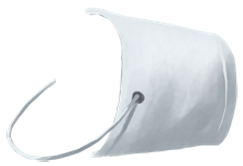
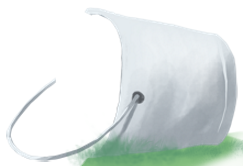
Improved hideouts and animations so it doesn't look completely stupid when the ducklings are sitting behind things.

Changed region(s): [[0.2593, 0.7831, 1.0, 1.0]]

diff --git a/app/src/main/assets/prototyp/games/erna/index.html b/app/src/main/assets/prototyp/games/erna/index.html
@@ -57,10 +57,10 @@
 		</div>
 
 		<!-- Seerose -->
-		<div class="hideout-wrap" id="hideout-1" >
+		<!-- <div class="hideout-wrap" id="hideout-1" >
 			<div class="hideout-back" backsideof="hideout-1"><img src="assets/versteck_1_back.png"></div>
 			<div class="hideout-front" ><img src="assets/versteck_1_front.png"></div>
-		</div>
+		</div> -->
 
 		<!-- Steine -->
 		<div class="hideout-wrap" id="hideout-2" >
@@ -72,18 +72,19 @@
 		</div>
 
 		<!-- Eimer -->
-		<div class="hideout-wrap" id="hideout-4">
+		<div class="hideout-wrap" id="hideout-4" notfor="#karl-heinz">
 			<div class="hideout-back"><img src="assets/versteck_4_back.png"></div>
 			<div class="hideout-front"><img src="assets/versteck_4_front.png"></div>
 		</div>
 
 		<!-- Blätter -->
+		<div class="hideout-wrap" id="hideout-1">
+			<div class="hideout-front" ><img src="assets/versteck_3.png"></div>
+		</div>
 		<div class="hideout-wrap" id="hideout-3">
 			<div class="hideout-front" ><img src="assets/versteck_3.png"></div>
 		</div>
-		<div class="hideout-wrap" id="hideout-10">
-			<div class="hideout-front" ><img src="assets/versteck_3.png"></div>
-		</div>
+		
 
 		<!-- ===== KÜKEN ==== -->
 		<div class="kueken animationWrap" id="karl" frames="1,4"></div>

diff --git a/app/src/main/assets/prototyp/games/erna/css/erna.css b/app/src/main/assets/prototyp/games/erna/css/erna.css
@@ -111,17 +111,18 @@ body {
 /* ==== individual hideouts ==== */
 
 /*Seerose*/
-#hideout-1{
+/*#hideout-1{
 	left: 37vw;
 	top: 61vh;
-	width: 17vw;
+	width: 20vw;
 }
 
 #hideout-1 .kueken {
 	margin-top: -7%;
 	width: 10vw;
 	height: 10vw;
-}
+	left: -5px;
+}*/
 
 /*Steine*/
 #hideout-2 {
@@ -149,17 +150,17 @@ body {
 	top: 75vh;
 }
 
-#hideout-10 {
-	right: 30vw;
-	top: 75vh;
+#hideout-1 {
+	right: 34vw;
+	top: 65vh;
 }
 
 #hideout-3 .kueken,
-#hideout-10 .kueken {
-	margin-top: 45px;
+#hideout-1 .kueken {
+	margin-top: 4.5vh;
 }
 
-#hideout-10 img{
+#hideout-1 img{
 	transform: scale(-1,1);
 }
 
@@ -170,7 +171,7 @@ body {
 }
 
 #hideout-4 .kueken {
-	margin-top: 0;
+	margin-top: -5px;
 	left: 2%;
 	width: 10vw;
 	height: 10vw;
@@ -183,7 +184,7 @@ body {
 }
 
 #hideout-5 .kueken {
-	margin-top: 40px;
+	margin-top: 20px;
 }
 
 /*Schilf*/

diff --git a/app/src/main/assets/prototyp/games/erna/js/erna.js b/app/src/main/assets/prototyp/games/erna/js/erna.js
@@ -81,8 +81,16 @@ function hideDucklings(){
 
 	// move the kueken-divs into their random hideouts, give hideouts extra class
 	for(i=0; i<ducklings.length; i++){
-		$(ducklings[i]).insertBefore(hideout_base_selector+hideout_ids[i]+" .hideout-front");
-		$(hideout_base_selector+hideout_ids[i]).addClass("hasDuckling");
+
+		console.log("Hiding duckling: "+ducklings[i]+" "+$(hideout_base_selector+hideout_ids[i]).attr("notfor"));
+		if($(hideout_base_selector+hideout_ids[i]).attr("notfor") != ducklings[i]){
+			$(ducklings[i]).insertBefore(hideout_base_selector+hideout_ids[i]+" .hideout-front");
+			$(hideout_base_selector+hideout_ids[i]).addClass("hasDuckling");
+		}else{
+			console.log("Combination of ducklings and hideouts didn't work. Retrying.");
+			hideDucklings();
+		}
+		
 	}
 
 }
